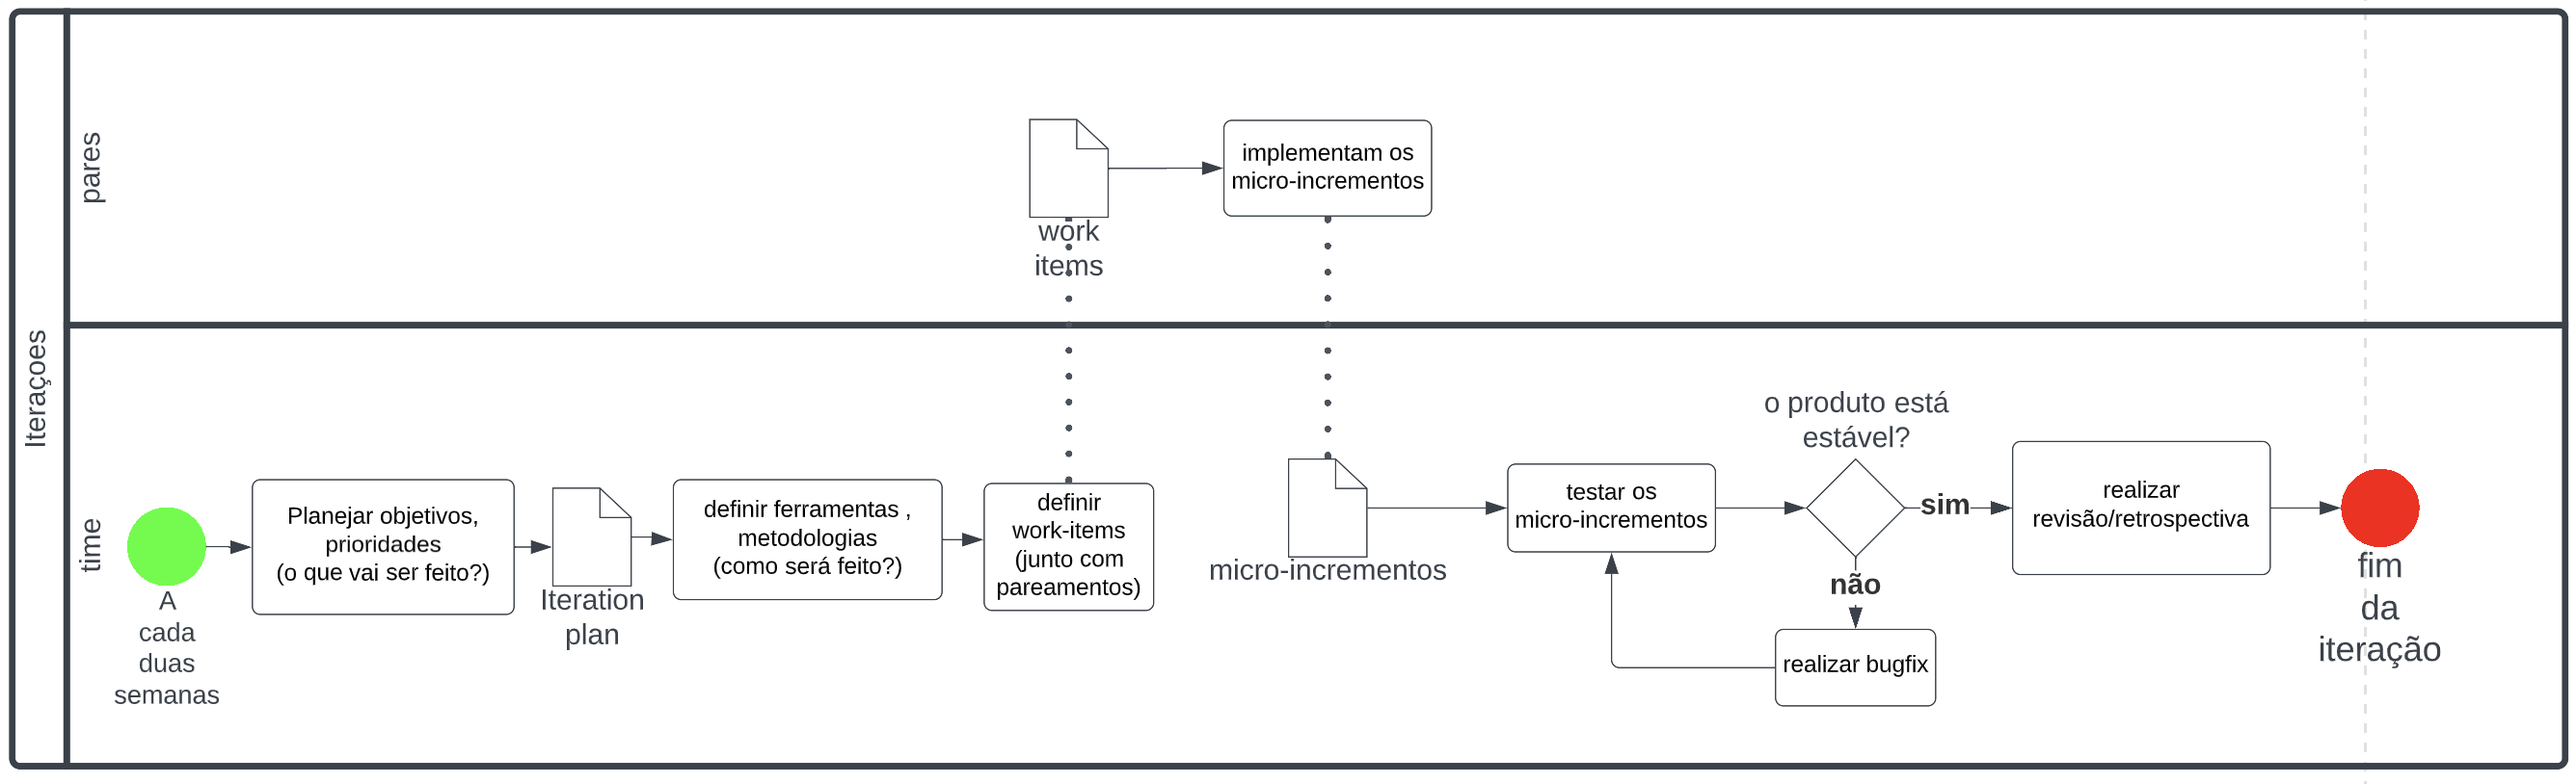
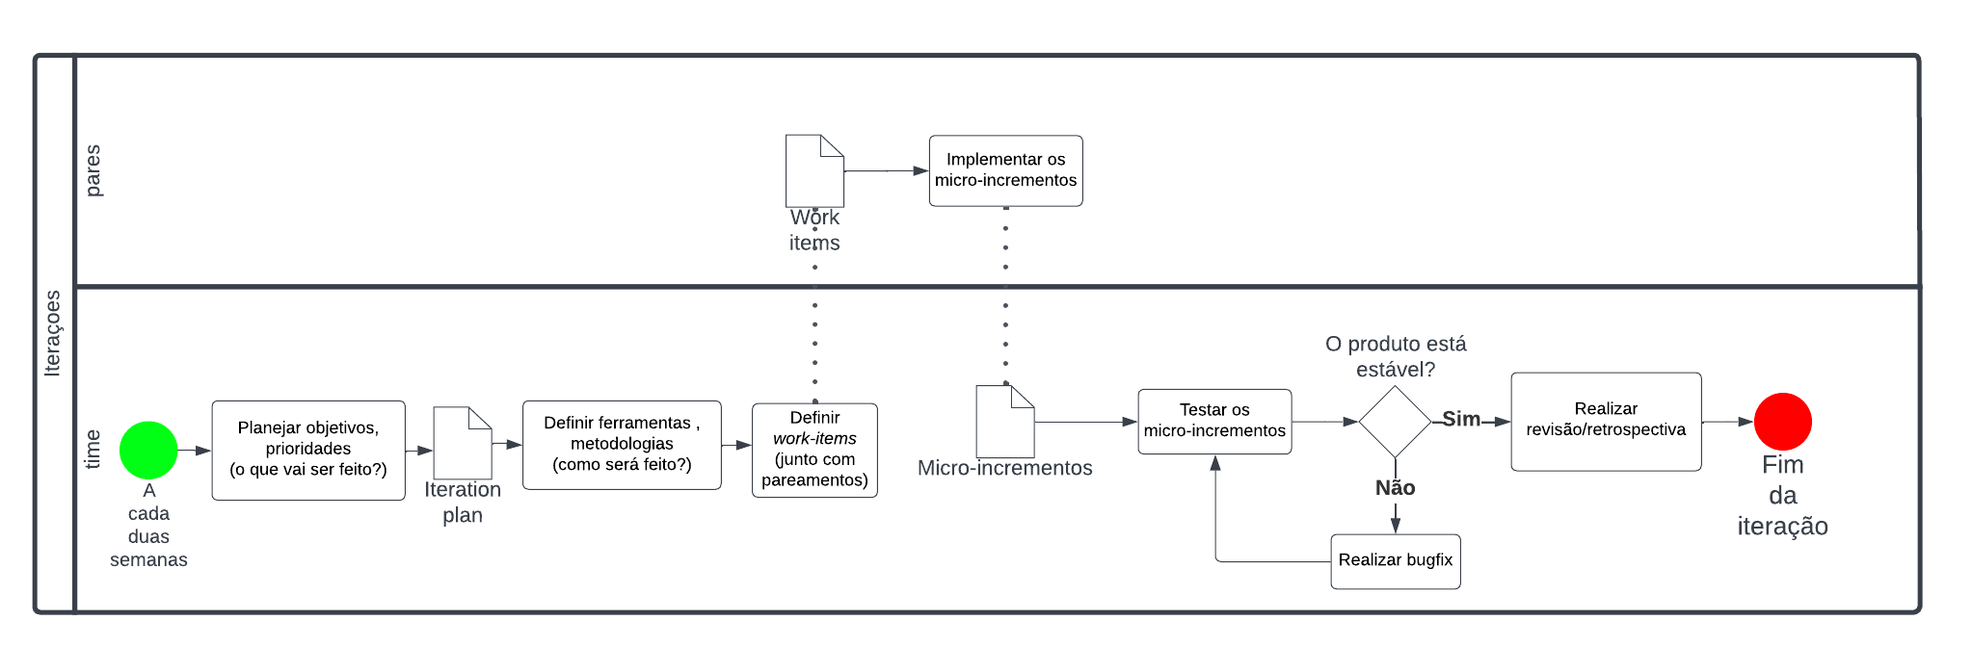
correção documentação (#15)

diff --git a/docs/Base/1.2.2.BPMN.md b/docs/Base/1.2.2.BPMN.md
@@ -5,7 +5,8 @@ Versionamento
 versão | data | Modificação | Autor
 -------|------|-------------|------
 0.1.0 | 17/11/2022 | Criação do documento | Ciro Costa
-0.2.0 | 17/11/2022 | Inserção do BPMN | Ciro Costa e Artur de Souza
+0.2.0 | 17/11/2022 | Inserção do BPMN | Ciro Costa e Artur de Sousa
+0.3.0 | 17/11/2022 | Correção do BPMN e adição de processo de criação| Artur de Sousa
 
 *Tabela 1: Versionamento*
 
@@ -15,6 +16,31 @@ O BPMN é uma representação gráfica dos processos e seus fluxos, por meio de 
 
 O nosso BPMN representa os processos que ocorrem na parte que gente considera mais crucial do Open up, as interações.
 
+## Artefatos obtidos
+
+Os artefatos que foram desenvolvidos para essa etapa foram:
+
+- Idealização em Papel
+- BPMN Final
+
+### Idealização em Papel
+
+Primeiramente, o Membro Samuel Avila mapeou a metodologia da Iteration Plan que o grupo iria utilizar, considerando que era a etapa do OpenUp que o grupo usaria mais.
+
+Já nesta etapa também foi definido como as duplas seriam utilizadas na metodologia, que seria o desenvolvimento das micro-implementações.
+
+![Figura Rascunho BPMN](../Base/assets/bpmn/Rascunho-BPMN.png)
+
+*Figura 1: Rascunho BPMN* 
+
+### BPMN Final
+
+Utilizando como base a idealização em papel, utilizando da plataforma [LucidChart](https://www.lucidchart.com/pages/pt) foi desenvolvido o BPMN final na digitalmente.
+
 ![Figura BPMN](../Base/assets/bpmn/bpmn.png)
 
-*Figura 1: BPMN* 
+*Figura 2: BPMN* 
+
+## Referências
+
+[1] SERRANO, Milene. [DSW-Base - BPMN](https://aprender3.unb.br/pluginfile.php/2277114/mod_label/intro/Arquitetura%20e%20Desenho%20de%20software%20-%20Aula%20BPMN%20Exemplos%20-%20Profa.%20Milene.pdf). Material apresentado para a disciplina de Arquitetura e Desenho de Software no curso de Engenharia de Software da UnB, FGA. Acesso em: 18 de novembro de 2022.

diff --git a/docs/Base/1.1.5.DesignSprint.md b/docs/Base/1.1.5.DesignSprint.md
@@ -1,10 +1,13 @@
-# 1.1.5 Design sprint
+# Design sprint
 
 | Versão | Alterações | Responsável|
 | ------ | ---------- | ---------- |
 | 0.1.0  | Criação do documento e adição dos protótipos de baixa fidelidade | Thiago França |
 | 0.2.0 | Documentação completa do Design Sprint e adição de mais prototipos e adição de referencias | Gabriel Sabanai |
+
 *Tabela 1: Versionamento*
+
+## Introdução
 
 O Design Sprint é um processo, desenvolvido pela Google Ventures, de 5 dias de trabalho que tem como objetivo responder as questões mais críticas do produto, por meio do design, prototipação e validações de ideias. Considerado um sucesso para formação estrategica, de inovação e de designt thinking de uma solução.
 

diff --git a/docs/Base/1.1.7.RichPicture.md b/docs/Base/1.1.7.RichPicture.md
@@ -1,10 +1,11 @@
-## 1.1.7 Rich Picture
+## Rich Picture
 
 | Versão | Alterações | Responsável|
 | ------ | ---------- | ---------- |
 | 0.1.0  | Criação dos Rich Pictures | Gabriel Sabanai e Filipe Machado |
 | 0.2.0  | Revisão e aperfeiçoamento | Gabriel Sabanai e Filipe Machado |
 | 0.3.0  | Criação e escrita do documento | Gabriel Sabanai |
+
 *Tabela 1: Versionamento*
 
 O Rich Picture é um processo que visa, de forma descritiva e ilustrativa, ajudar o cliente a descrever o produto ou o sistema de software que tem em mente, junto com todas demandas internas ou externas do sistema. Esse artefato ajuda a abstrair de forma simples e entendivel os principais elementos do produto.

diff --git a/docs/Base/1.1.1.MapaMental.md b/docs/Base/1.1.1.MapaMental.md
@@ -1,4 +1,4 @@
-# Diagrama Causa e Efeito
+# Mapa Mental
 
 Versionamento
 
@@ -8,6 +8,8 @@ versão | data | Modificação | Autor
 0.2.0 | 16/11/2022 | Elaboração da primeira versão do mapa mental | Samuel
 0.2.1 | 16/11/2022 | Elaboração da segunda versão do mapa mental | Samuel e Lucas
 0.3.0 | 17/11/2022 | Elaboração da terceira versão do mapa mental | Samuel e Lucas
+0.3.1 | 18/11/2022 | Correção textual e padronização | Artur de Sousa
+
 
 *Tabela 1: Versionamento*
 

diff --git a/docs/Base/1.4.ParticipacoesBase.md b/docs/Base/1.4.ParticipacoesBase.md
@@ -4,7 +4,7 @@
 | -- | -- | -- |
 | Alan Marques  | Estimativa de Custos, Design Sprint | Excelente |
 | Arthur Matos  |  Políticas de Contribuição, 5W2H, Design Sprint | Boa |
-| Artur Sousa  |  BPMN, 5W2H | Boa |
+| Artur Sousa  |  BPMN, 5W2H, Correção Docs | Boa |
 | Ciro Costa  |  BPMN, Léxicos, Design Sprint | Boa |
 | Filipe Machado |  Rich Picture, Políticas de Contribuição, Design Sprint | Boa |
 | Gabriel Sabanai  |  Design Sprint, Rich Picture, Atas | Excelente |

diff --git a/docs/Base/1.1.2.PlanoDeRiscos.md b/docs/Base/1.1.2.PlanoDeRiscos.md
@@ -1,9 +1,11 @@
-# PLANO DE RISCOS
+# Plano de Riscos
 
 ## Histórico de Revisão
 | Data | Versão | Descrição | Autor(es) |
 | :--: | :----: | :-------: | :-------: |
 | 16/11/22 | 0.1 | Criação do documento, indicação de tópicos e referências | [Leonardo Takehana](https://github.com/ltakehana) |
+
+*Tabela 1: Versionamento*
 
 
 ## Introdução

diff --git a/docs/Base/1.1.6.Lexico.md b/docs/Base/1.1.6.Lexico.md
@@ -1,4 +1,4 @@
-# Léxicos
+# Léxico
 
 Versionamento
 
